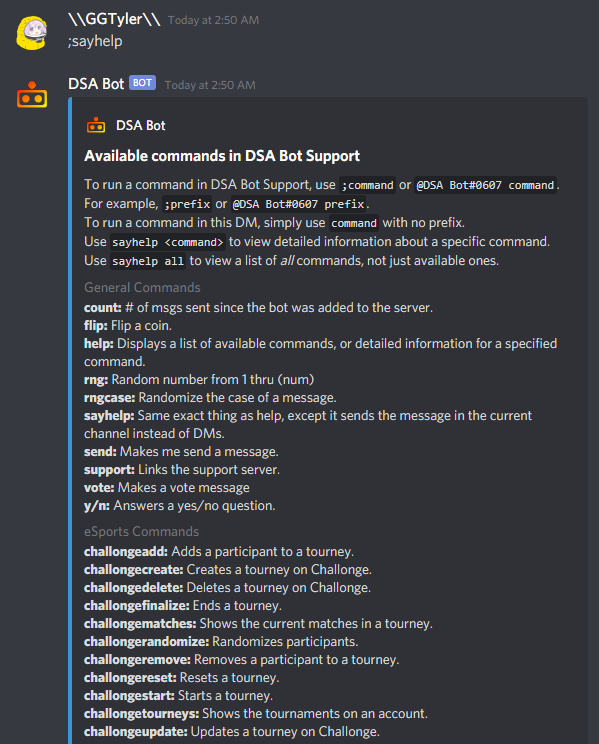
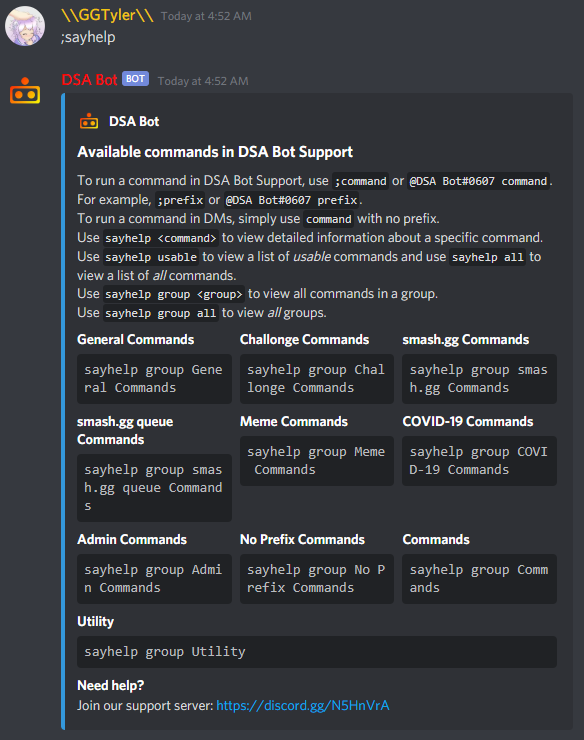
Update command list for v0.8.1 and v0.8.2

Changed region(s): [[0.0, 0.0, 0.9247, 1.0], [0.6781, 0.7149, 0.9555, 0.8081]]

diff --git a/public/projects/dsabot/commands.html b/public/projects/dsabot/commands.html
@@ -12,8 +12,6 @@
     <!-- JQuery + Footer -->
     <script src="https://code.jquery.com/jquery-3.3.1.js" integrity="sha256-2Kok7MbOyxpgUVvAk/HJ2jigOSYS2auK4Pfzbm7uH60=" crossorigin="anonymous"></script>
     <script src="/footerScript.js"></script>
-    <!-- Font Awesome -->
-    <script src="https://kit.fontawesome.com/30ccb5ba0b.js" crossorigin="anonymous"></script>
     <!-- Tabs -->
     <script src="/projects/dsabot/tabs.js"></script>
     <!-- Loading commands thru JSON -->
@@ -21,16 +19,17 @@
     <script src="/projects/dsabot/loadrenders.js"></script>
   </head>
   <body onload="render()">
-    <p style="color:red;font-family:'Roboto',sans-serif;text-align:center;">Please note that not all of the images in the Esports commands are done.</p>
     <div class="tab">
       <button class="tablinks" onclick="openTab(event, 'gen')" id="default">General</button>
-      <button class="tablinks" onclick="openTab(event, 'esprt')">Esports</button>
+      <button class="tablinks" onclick="openTab(event, 'chlge')">Challonge</button>
+      <button class="tablinks" onclick="openTab(event, 'smash')">smash.gg</button>
+      <button class="tablinks" onclick="openTab(event,'sggqu')">smash.gg queue</button>
       <button class="tablinks" onclick="openTab(event, 'meme')">Memes</button>
       <button class="tablinks" onclick="openTab(event, 'cvd19')">COVID-19</button>
       <button class="tablinks" onclick="openTab(event, 'admin')">Admin</button>
       <button class="tablinks" onclick="openTab(event, 'nopre')">No Prefix</button>
     </div>
-    <span id="cmds" style="color:white"><code>Commands loading, please hold...</code></div>
+    <span id="cmds" style="color:white"><code>Commands loading, please hold...</code></span>
     <br/><br/>
     <script>
     function toggle(i) {
